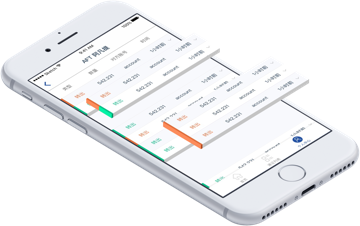
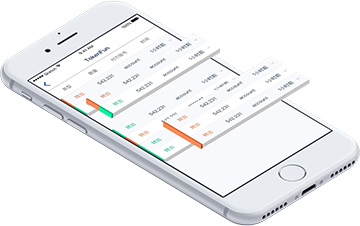
modify tokenpii to tokenfun

diff --git a/js/libs/locales/zh.js b/js/libs/locales/zh.js
@@ -40,7 +40,7 @@ export const zh = {
       '404': '找不到',
     },
     title: {
-      home: 'TokenPii',
+      home: 'tokenfun',
       asset: '通证',
       hist: '最近交易记录',
       center: '用户',
@@ -94,7 +94,7 @@ export const zh = {
       inputpass: '密码',
       inputconf: '确认密码',
       accountlogin: '已有账号？登录->',
-      import1: 'Tokenpii不为您保存密码。我们不能登录您的账号、恢复您的密码、撤回您的交易。请您保护好密码并在安全的环境下使用钱包。',
+      import1: 'tokenfun不为您保存密码。我们不能登录您的账号、恢复您的密码、撤回您的交易。请您保护好密码并在安全的环境下使用钱包。',
       import2: '您必须要为您自己的钱包安全负责。',
       import3: '',
       checkbox: '我已阅读并同意服务和隐私条款',
@@ -175,18 +175,18 @@ export const zh = {
       term0: {
         title: '',
         subtitle: { 
-          sub0: 'Tokenpii是一个区块链开源项目，由社区共同参与开发和运营，因此Tokenpii无法找回您的密码、无法登陆您的账户、也无法回滚记录，为了您的钱包安全，请您在使用客户端前仔细阅读本条款并自主考虑风险。',
-          sub1: '您在成为Tokenpii用户的过程中点击"注册"及“登陆”按钮即表示您已仔细阅读并明确同意遵守本条款以及经参引而并入其中的所有条款、政策以及指南，并受该等规则的约束（合称"本条款"）。如果您不同意本条款的全部规定，则请勿使用Tokenpii提供的所有服务。',
-          sub2: '本协议可由Tokenpii随时更新，经修改的协议一经在Tokenpii上公布，立即自动生效，恕不另行通知。'
+          sub0: 'tokenfun是一个区块链开源项目，由社区共同参与开发和运营，因此tokenfun无法找回您的密码、无法登陆您的账户、也无法回滚记录，为了您的钱包安全，请您在使用客户端前仔细阅读本条款并自主考虑风险。',
+          sub1: '您在成为tokenfun用户的过程中点击"注册"及“登陆”按钮即表示您已仔细阅读并明确同意遵守本条款以及经参引而并入其中的所有条款、政策以及指南，并受该等规则的约束（合称"本条款"）。如果您不同意本条款的全部规定，则请勿使用tokenfun提供的所有服务。',
+          sub2: '本协议可由tokenfun随时更新，经修改的协议一经在tokenfun上公布，立即自动生效，恕不另行通知。'
         },
         item: "",
       },
       term1: {
         title: '一、服务内容',
         subtitle: {
-          sub0: '1. Tokenpii指的是基于区块链系统开发区块链钱包，具体服务内容由根据项目发展情况进行不时更新，包括但不限于通证类型的增加、通证的接收与发送、管理数字资产、交易记录、图片保存等。Tokenpii创始团队对提供的服务拥有最终解释权。 ',
+          sub0: '1. tokenfun指的是基于区块链系统开发区块链钱包，具体服务内容由根据项目发展情况进行不时更新，包括但不限于通证类型的增加、通证的接收与发送、管理数字资产、交易记录、图片保存等。tokenfun创始团队对提供的服务拥有最终解释权。 ',
           sub1: {
-            title: '2. Tokenpii是一个开源的区块链项目，您在访问、使用Tokenpii的所有服务时，需要提供注册账号和登陆密码，账号和密码的备份及储存由您个人负责，您应知悉基于区块链系统交易“不可撤销”及“去中心化”的属性， Tokenpii的服务具有以下特点：',
+            title: '2. tokenfun是一个开源的区块链项目，您在访问、使用tokenfun的所有服务时，需要提供注册账号和登陆密码，账号和密码的备份及储存由您个人负责，您应知悉基于区块链系统交易“不可撤销”及“去中心化”的属性， tokenfun的服务具有以下特点：',
             items: {
               item0: '1) 不存储用户的钱包密码',
               item1: '2) 不能登陆用户的账户',
@@ -196,23 +196,23 @@ export const zh = {
               item5: '6) 不可为您暂停或撤销转账交易'
             }
           },
-          sub2: '3. 由于Tokenpii的服务特性，您必须要为您的钱包安全负责，自行保管含有Tokenpii的移动设备、备份账户和密码。若用户发生设备丢失、账户密码遗忘、交易误操作（如转账地址输错）、黑客或病毒入侵造成通证资产的丢失，均无法通过Tokenpii还原钱包、找回密码、回滚交易。如您发现任何安全漏洞的情况，请立即与Tokenpii联系。'
+          sub2: '3. 由于tokenfun的服务特性，您必须要为您的钱包安全负责，自行保管含有tokenfun的移动设备、备份账户和密码。若用户发生设备丢失、账户密码遗忘、交易误操作（如转账地址输错）、黑客或病毒入侵造成通证资产的丢失，均无法通过tokenfun还原钱包、找回密码、回滚交易。如您发现任何安全漏洞的情况，请立即与tokenfun联系。'
         },
       },
       term2: {
         title: '二、免责及安全声明',
         subtitle: {
-          sub1: '您违反本条款、违反道德或法律的，侵犯他人权利的，由您自行承担全部责任，Tokenpii不承担任何责任。',
-          sub2: 'Tokenpii不保证服务一定能满足您的要求；不保证服务不会中断，也不保证服务的及时性、安全性、准确性。',
-          sub3: 'Tokenpii不保证您在Tokenpii上的交易各方会及时履行其在与您达成的交易协议中各项义务。'
+          sub1: '您违反本条款、违反道德或法律的，侵犯他人权利的，由您自行承担全部责任，tokenfun不承担任何责任。',
+          sub2: 'tokenfun不保证服务一定能满足您的要求；不保证服务不会中断，也不保证服务的及时性、安全性、准确性。',
+          sub3: 'tokenfun不保证您在tokenfun上的交易各方会及时履行其在与您达成的交易协议中各项义务。'
         },
       },
       term3: {
         title: '三、服务变更、中断或终止',
-        subtitle: '如因升级的需要而需暂停网络服务、或调整服务内容，Tokenpii将尽可能在网站上进行通告。由于用户未能及时浏览通告而造成的损失，Tokenpii不承担任何责任。 '
+        subtitle: '如因升级的需要而需暂停网络服务、或调整服务内容，tokenfun将尽可能在网站上进行通告。由于用户未能及时浏览通告而造成的损失，tokenfun不承担任何责任。 '
       },
       term4: {
-        title: '本条款最终解释权归Tokenpii所有。',
+        title: '本条款最终解释权归tokenfun所有。',
       }
     }
   }

diff --git a/js/libs/locales/en.js b/js/libs/locales/en.js
@@ -40,7 +40,7 @@ export const en = {
       '404': 'Not Found',
     },
     title: {
-      home: 'TokenPii',
+      home: 'tokenfun',
       asset: 'My Tokens',
       hist: 'Newest Bill',
       center: 'Me',
@@ -94,7 +94,7 @@ export const en = {
       inputpass: 'Password',
       inputconf: 'Confirm',
       accountlogin: 'Log In?',
-      import1: 'Tokenpii does not hold your passwords for you. We cannot access accounts, reset passwords, nor reverse transactions. Protect your password & log in in safe environment. ',
+      import1: 'tokenfun does not hold your passwords for you. We cannot access accounts, reset passwords, nor reverse transactions. Protect your password & log in in safe environment. ',
       import2: 'You are responsible for your security. ',
       import3: ' ',
       checkbox: 'I have read and agree to Terms of Service and privacy policy',
@@ -173,18 +173,18 @@ export const en = {
       term0: {
         title: '',
         subtitle: { 
-          sub0: 'Tokenpii是一个区块链开源项目，由社区共同参与开发和运营，因此Tokenpii无法找回您的密码、无法登陆您的账户、也无法回滚记录，为了您的钱包安全，请您在使用客户端前仔细阅读本条款并自主考虑风险。',
-          sub1: '您在成为Tokenpii用户的过程中点击"注册"及“登陆”按钮即表示您已仔细阅读并明确同意遵守本条款以及经参引而并入其中的所有条款、政策以及指南，并受该等规则的约束（合称"本条款"）。如果您不同意本条款的全部规定，则请勿使用Tokenpii提供的所有服务。',
-          sub2: '本协议可由Tokenpii随时更新，经修改的协议一经在Tokenpii上公布，立即自动生效，恕不另行通知。'
+          sub0: 'tokenfun是一个区块链开源项目，由社区共同参与开发和运营，因此tokenfun无法找回您的密码、无法登陆您的账户、也无法回滚记录，为了您的钱包安全，请您在使用客户端前仔细阅读本条款并自主考虑风险。',
+          sub1: '您在成为tokenfun用户的过程中点击"注册"及“登陆”按钮即表示您已仔细阅读并明确同意遵守本条款以及经参引而并入其中的所有条款、政策以及指南，并受该等规则的约束（合称"本条款"）。如果您不同意本条款的全部规定，则请勿使用tokenfun提供的所有服务。',
+          sub2: '本协议可由tokenfun随时更新，经修改的协议一经在tokenfun上公布，立即自动生效，恕不另行通知。'
         },
         item: "",
       },
       term1: {
         title: '一、服务内容',
         subtitle: {
-          sub0: '1. Tokenpii指的是基于区块链系统开发区块链钱包，具体服务内容由根据项目发展情况进行不时更新，包括但不限于通证类型的增加、通证的接收与发送、管理数字资产、交易记录、图片保存等。Tokenpii创始团队对提供的服务拥有最终解释权。 ',
+          sub0: '1. tokenfun指的是基于区块链系统开发区块链钱包，具体服务内容由根据项目发展情况进行不时更新，包括但不限于通证类型的增加、通证的接收与发送、管理数字资产、交易记录、图片保存等。tokenfun创始团队对提供的服务拥有最终解释权。 ',
           sub1: {
-            title: '2. Tokenpii是一个开源的区块链项目，您在访问、使用Tokenpii的所有服务时，需要提供注册账号和登陆密码，账号和密码的备份及储存由您个人负责，您应知悉基于区块链系统交易“不可撤销”及“去中心化”的属性， Tokenpii的服务具有以下特点：',
+            title: '2. tokenfun是一个开源的区块链项目，您在访问、使用tokenfun的所有服务时，需要提供注册账号和登陆密码，账号和密码的备份及储存由您个人负责，您应知悉基于区块链系统交易“不可撤销”及“去中心化”的属性， tokenfun的服务具有以下特点：',
             items: {
               item0: '1) 不存储用户的钱包密码',
               item1: '2) 不能登陆用户的账户',
@@ -194,23 +194,23 @@ export const en = {
               item5: '6) 不可为您暂停或撤销转账交易'
             }
           },
-          sub2: '3. 由于Tokenpii的服务特性，您必须要为您的钱包安全负责，自行保管含有Tokenpii的移动设备、备份账户和密码。若用户发生设备丢失、账户密码遗忘、交易误操作（如转账地址输错）、黑客或病毒入侵造成通证资产的丢失，均无法通过Tokenpii还原钱包、找回密码、回滚交易。如您发现任何安全漏洞的情况，请立即与Tokenpii联系。'
+          sub2: '3. 由于tokenfun的服务特性，您必须要为您的钱包安全负责，自行保管含有tokenfun的移动设备、备份账户和密码。若用户发生设备丢失、账户密码遗忘、交易误操作（如转账地址输错）、黑客或病毒入侵造成通证资产的丢失，均无法通过tokenfun还原钱包、找回密码、回滚交易。如您发现任何安全漏洞的情况，请立即与tokenfun联系。'
         },
       },
       term2: {
         title: '二、免责及安全声明',
         subtitle: {
-          sub1: '您违反本条款、违反道德或法律的，侵犯他人权利的，由您自行承担全部责任，Tokenpii不承担任何责任。',
-          sub2: 'Tokenpii不保证服务一定能满足您的要求；不保证服务不会中断，也不保证服务的及时性、安全性、准确性。',
-          sub3: 'Tokenpii不保证您在Tokenpii上的交易各方会及时履行其在与您达成的交易协议中各项义务。'
+          sub1: '您违反本条款、违反道德或法律的，侵犯他人权利的，由您自行承担全部责任，tokenfun不承担任何责任。',
+          sub2: 'tokenfun不保证服务一定能满足您的要求；不保证服务不会中断，也不保证服务的及时性、安全性、准确性。',
+          sub3: 'tokenfun不保证您在tokenfun上的交易各方会及时履行其在与您达成的交易协议中各项义务。'
         },
       },
       term3: {
         title: '三、服务变更、中断或终止',
-        subtitle: '如因升级的需要而需暂停网络服务、或调整服务内容，Tokenpii将尽可能在网站上进行通告。由于用户未能及时浏览通告而造成的损失，Tokenpii不承担任何责任。 '
+        subtitle: '如因升级的需要而需暂停网络服务、或调整服务内容，tokenfun将尽可能在网站上进行通告。由于用户未能及时浏览通告而造成的损失，tokenfun不承担任何责任。 '
       },
       term4: {
-        title: '本条款最终解释权归Tokenpii所有。',
+        title: '本条款最终解释权归tokenfun所有。',
       }
     }
   }

diff --git a/js/containers/Users/screens/Card.js b/js/containers/Users/screens/Card.js
@@ -37,10 +37,10 @@ class Card extends Component {
   _saveQrToDisk() {
    	this.svg.toDataURL((data) => {
    		// alert(RNFS.DocumentDirectoryPath);
-   		RNFS.writeFile(`${RNFS.DocumentDirectoryPath}/tokenpii-qrcode.png`, data, 'base64')
+   		RNFS.writeFile(`${RNFS.DocumentDirectoryPath}/tokenfun-qrcode.png`, data, 'base64')
    		  .then((success) => {
    		  	// alert("save ", RNFS.DocumentDirectoryPath, success);
-   			  return CameraRoll.saveToCameraRoll(`${RNFS.DocumentDirectoryPath}/tokenpii-qrcode.png`, 'photo');
+   			  return CameraRoll.saveToCameraRoll(`${RNFS.DocumentDirectoryPath}/tokenfun-qrcode.png`, 'photo');
    		  })
    		  .then(() => {
    			  alert(translate('tips.card.saved', locale));
@@ -60,7 +60,7 @@ class Card extends Component {
     if (TRACE) console.info('=====[Language.js]::render - : currentAccount >  ', currentAccount);
 
 
-    const qrValue = `tokenpii://${currentAccount}`;
+    const qrValue = `tokenfun://${currentAccount}`;
     return (
       <ViewContainer>
         <SplashTile
@@ -71,7 +71,7 @@ class Card extends Component {
           titleStyle={styles.title}
           featured
           height={150}
-          icon={{ source: require('../images/tokenpii.png') }}
+          icon={{ source: require('../images/tokenfun.png') }}
           iconStyle={styles.icon}
           iconContainerStyle={{ marginTop: 50 }}
         />
@@ -81,7 +81,7 @@ class Card extends Component {
             <QRCode
               value={qrValue}
               size={180}
-              logo={require('../images/tokenpii.png')}
+              logo={require('../images/tokenfun.png')}
               logoWidth={180 * 0.2}
               logoBackgroundColor="#4871db"
               getRef={c => (this.svg = c)}

diff --git a/js/containers/Users/screens/Card.web.js b/js/containers/Users/screens/Card.web.js
@@ -48,7 +48,7 @@ class Card extends Component {
     if (TRACE) console.info('=====[Language.js]::render - : currentAccount >  ', currentAccount);
 
 
-    const qrValue = `${currentAccount}@tokenpii.org`;
+    const qrValue = `${currentAccount}@tokenfun.org`;
     return (
       <ViewContainer>
         <SplashTile
@@ -59,7 +59,7 @@ class Card extends Component {
           titleStyle={styles.title}
           featured
           height={150}
-          icon={{ source: require('../images/tokenpii.png') }}
+          icon={{ source: require('../images/tokenfun.png') }}
           iconStyle={styles.icon}
           iconContainerStyle={{ marginTop: 50 }}
         />
@@ -69,7 +69,7 @@ class Card extends Component {
             <QRCode
               value={qrValue}
               size={180}
-              logo={require('../images/tokenpii.png')}
+              logo={require('../images/tokenfun.png')}
               logoWidth={180 * 0.2}
               logoBackgroundColor="red"
               getRef={c => (this.svg = c)}

diff --git a/js/containers/Home/components/TokenFun.js b/js/containers/Home/components/TokenFun.js
@@ -4,7 +4,7 @@ import { View, Text, StyleSheet, Image, ScrollView } from 'react-native';
 import { ViewContainer } from '../../../components';
 import { Colors, SCREEN_WIDTH, SCREEN_HEIGTH, normalize, translate, locale } from '../../../libs';
 
-export class TokenPii extends Component {
+export class TokenFun extends Component {
   render() {
     return (
       <ViewContainer>
@@ -12,7 +12,7 @@ export class TokenPii extends Component {
           <View style={styles.titleContainer}>
             <Image
               style={styles.titleImage}
-              source={require('../images/tokenpii.jpg')}
+              source={require('../images/tokenfun.jpg')}
             />
           </View>
 

diff --git a/js/containers/Users/screens/Scan.js b/js/containers/Users/screens/Scan.js
@@ -56,7 +56,7 @@ class BarcodeScan extends Component {
       const { navigation } = this.props;
       if (navigation && navigation.state.params && navigation.state.params.handleScan) {
         const res = e.nativeEvent.data.code;
-        const pos = res.indexOf('tokenpii://');
+        const pos = res.indexOf('tokenfun://');
         if (pos === 0) {
           navigation.state.params.handleScan(
             { toAccount: res.substr(11) },

diff --git a/js/components/LaunchScreen.js b/js/components/LaunchScreen.js
@@ -43,7 +43,7 @@ class LaunchScreen extends Component {
           width={SCREEN_WIDTH}
           view={View}
           childrenContainerStyle={styles.children}
-          icon={{ source: require('./images/tokenpiiicon.png') }}
+          icon={{ source: require('./images/tokenfunicon.png') }}
           iconStyle={styles.icon}
         >
           <Text style={styles.centering}>{ translate('enter.splash.connectnode', locale) }</Text>

diff --git a/js/containers/Home/index.js b/js/containers/Home/index.js
@@ -6,13 +6,13 @@ import {
 } from 'react-native';
 
 import styles from './styles';
-import { TokenPii } from './components/TokenPii';
+import { TokenFun } from './components/TokenFun';
 import { LoadingScreen, ViewContainer } from '../../components';
 
 const Home = () => {
   return (
     <ViewContainer>
-      <TokenPii />
+      <TokenFun />
     </ViewContainer>
   );
 };

diff --git a/js/containers/Users/screens/Center.js b/js/containers/Users/screens/Center.js
@@ -110,7 +110,7 @@ class Center extends Component {
           titleStyle={styles.title}
           featured
           height={150}
-          icon={{ source: require('../images/tokenpii.png') }}
+          icon={{ source: require('../images/tokenfun.png') }}
           iconStyle={styles.icon}
           iconContainerStyle={{ marginTop: 50 }}
         />

diff --git a/js/components/SplashScreen.js b/js/components/SplashScreen.js
@@ -39,7 +39,7 @@ export class SplashScreen extends Component {
       width={SCREEN_WIDTH}
       view={View}
       childrenContainerStyle={styles.children}
-      icon={{ source: require('./images/tokenpiiicon.png') }}
+      icon={{ source: require('./images/tokenfunicon.png') }}
       iconStyle={styles.icon}
     >
       <View style={{
